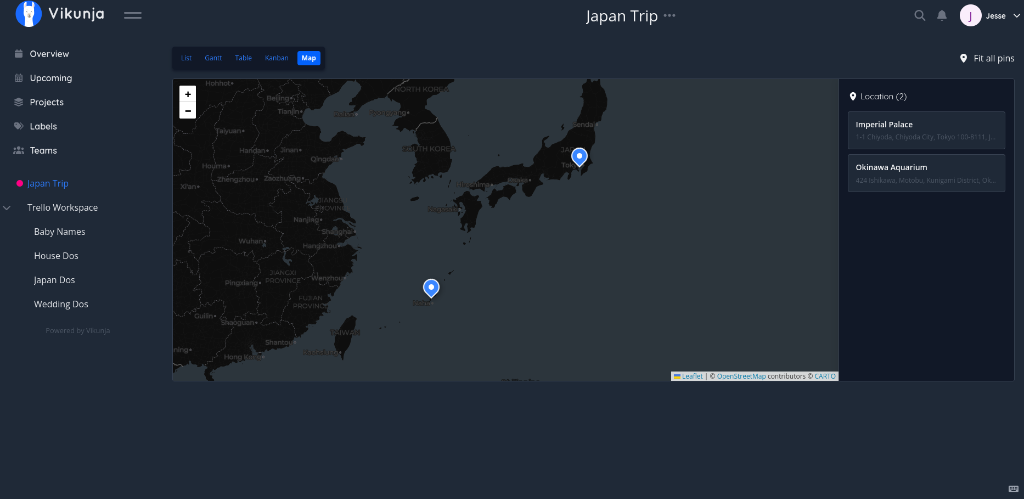
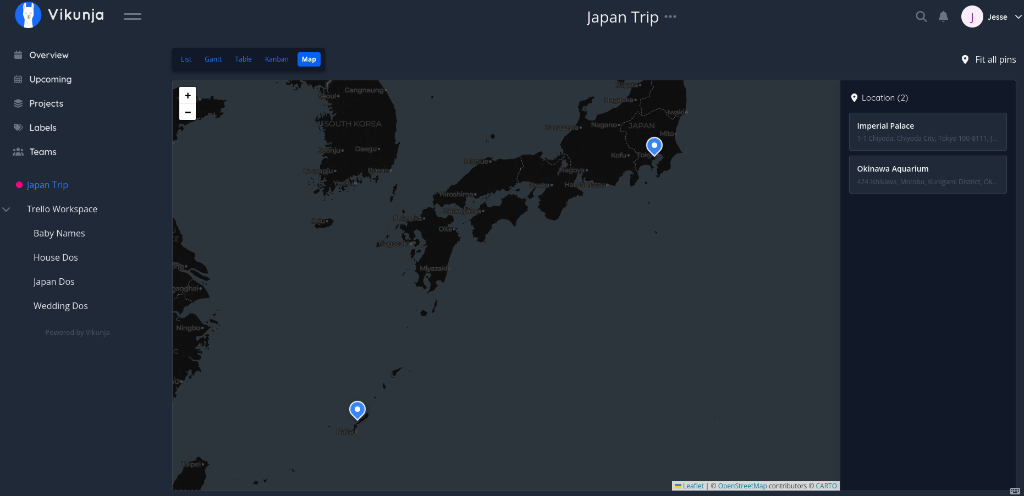
fix(ui): responsive map layout with mobile slide-up drawer and full-height desktop view

diff --git a/frontend/src/components/project/views/ProjectViewMap.vue b/frontend/src/components/project/views/ProjectViewMap.vue
@@ -21,6 +21,19 @@
 					/>
 					{{ $t('project.map.fitAll') }}
 				</BaseButton>
+
+				<BaseButton
+					size="small"
+					variant="secondary"
+					class="mobile-locations-btn mis-2"
+					@click="isMobileDrawerOpen = true"
+				>
+					<Icon
+						icon="list"
+						class="mie-1"
+					/>
+					{{ $t('task.location.title') }} ({{ mappedTasks.length }})
+				</BaseButton>
 			</div>
 		</template>
 
@@ -32,9 +45,10 @@
 					:class="{'dark-osm-tiles': isUsingOsmFallback && isDark}"
 				/>
 
+				<!-- Desktop Persistent Sidebar -->
 				<aside
 					v-if="!isLoadingLocations && mappedTasks.length > 0"
-					class="map-sidebar"
+					class="map-sidebar desktop-only"
 				>
 					<h4 class="sidebar-heading">
 						<Icon
@@ -59,6 +73,51 @@
 						</li>
 					</ul>
 				</aside>
+
+				<!-- Mobile Slide-Up Drawer -->
+				<div
+					v-if="!isLoadingLocations && mappedTasks.length > 0 && isMobileDrawerOpen"
+					class="mobile-drawer-backdrop"
+					@click="isMobileDrawerOpen = false"
+				>
+					<div
+						class="mobile-drawer-panel"
+						@click.stop
+					>
+						<div class="mobile-drawer-header">
+							<span class="mobile-drawer-title">
+								<Icon
+									icon="map-marker-alt"
+									class="mie-1"
+								/>
+								{{ $t('task.location.title') }} ({{ mappedTasks.length }})
+							</span>
+							<button
+								type="button"
+								class="mobile-drawer-close"
+								:aria-label="$t('misc.closeDialog')"
+								@click="isMobileDrawerOpen = false"
+							>
+								<Icon icon="xmark" />
+							</button>
+						</div>
+						<ul class="pinned-locations-list">
+							<li
+								v-for="item in mappedTasks"
+								:key="item.task.id"
+								class="pinned-location-item"
+								@click="onMobileLocationClick(item.task.id)"
+							>
+								<div class="pinned-task-title">
+									{{ item.task.title }}
+								</div>
+								<div class="pinned-task-address">
+									{{ item.location.address || item.location.title }}
+								</div>
+							</li>
+						</ul>
+					</div>
+				</div>
 
 				<!-- Empty hint shown ONLY after loading finishes and no locations exist -->
 				<div
@@ -102,6 +161,7 @@ const props = withDefaults(defineProps<{
 
 const router = useRouter()
 const {isDark} = useColorScheme()
+const isMobileDrawerOpen = ref(false)
 
 const mapContainer = ref<HTMLElement | null>(null)
 const locationsByTaskId = ref<Map<number, TaskLocation>>(new Map())
@@ -276,13 +336,21 @@ function focusTaskPin(taskId: number) {
 	marker.openPopup()
 }
 
+function onMobileLocationClick(taskId?: number) {
+	if (!taskId) return
+	focusTaskPin(taskId)
+	isMobileDrawerOpen.value = false
+}
+
 function tryInitAndRender() {
 	if (mapContainer.value && !mapInstance) {
 		initMap()
 	}
 	if (mapInstance) {
-		mapInstance.invalidateSize()
-		renderMarkers()
+		nextTick(() => {
+			mapInstance?.invalidateSize()
+			renderMarkers()
+		})
 	}
 }
 
@@ -346,10 +414,7 @@ onBeforeUnmount(() => {
 
 <style scoped lang="scss">
 .project-map-view-wrapper {
-	block-size: 100%;
-	display: flex;
-	flex-direction: column;
-	flex: 1;
+	inline-size: 100%;
 }
 
 .map-toolbar {
@@ -357,31 +422,45 @@ onBeforeUnmount(() => {
 	align-items: center;
 }
 
+.mobile-locations-btn {
+	@media screen and (min-width: $tablet) {
+		display: none !important;
+	}
+}
+
 .project-map-view {
-	flex: 1;
 	inline-size: 100%;
-	block-size: calc(100vh - 170px);
-	min-block-size: 550px;
+	block-size: calc(100vh - #{$navbar-height} - 1.5rem - #{$switch-view-height} - 1rem - 1.5rem);
+	min-block-size: 500px;
 	border-radius: $radius;
 	overflow: hidden;
 	border: 1px solid var(--border);
 	background: var(--scheme-main);
 	position: relative;
 	display: flex;
+
+	@media screen and (max-width: $tablet) {
+		block-size: calc(100vh - #{$navbar-height} - 1.5rem - (#{$switch-view-height} * 2) - 1rem - 1rem);
+		min-block-size: 380px;
+	}
 }
 
 .map-layout {
 	display: flex;
 	inline-size: 100%;
 	block-size: 100%;
+	flex: 1;
+	min-block-size: 0;
 	position: relative;
+	overflow: hidden;
 }
 
 .leaflet-map-canvas {
 	flex: 1;
 	inline-size: 100%;
 	block-size: 100%;
-	min-block-size: 550px;
+	min-block-size: 0;
+	position: relative;
 	z-index: 1;
 
 	&.dark-osm-tiles :deep(.leaflet-tile-pane) {
@@ -391,6 +470,8 @@ onBeforeUnmount(() => {
 
 .map-sidebar {
 	inline-size: 320px;
+	block-size: 100%;
+	min-block-size: 0;
 	background: var(--scheme-main);
 	border-inline-start: 1px solid var(--border);
 	overflow-y: auto;
@@ -398,10 +479,17 @@ onBeforeUnmount(() => {
 	z-index: 10;
 	display: flex;
 	flex-direction: column;
+	flex-shrink: 0;
 	box-shadow: -4px 0 16px rgba(0, 0, 0, 0.08);
 
 	:global(.dark) & {
 		box-shadow: -4px 0 16px rgba(0, 0, 0, 0.35);
+	}
+
+	&.desktop-only {
+		@media screen and (max-width: $tablet) {
+			display: none !important;
+		}
 	}
 }
 
@@ -412,6 +500,72 @@ onBeforeUnmount(() => {
 	margin-block-end: 1rem;
 	display: flex;
 	align-items: center;
+}
+
+.mobile-drawer-backdrop {
+	position: absolute;
+	inset: 0;
+	z-index: 1000;
+	background: rgba(0, 0, 0, 0.45);
+	backdrop-filter: blur(2px);
+	display: flex;
+	flex-direction: column;
+	justify-content: flex-end;
+
+	@media screen and (min-width: $tablet) {
+		display: none !important;
+	}
+}
+
+.mobile-drawer-panel {
+	background: var(--scheme-main);
+	border-radius: $radius $radius 0 0;
+	border-block-start: 1px solid var(--border);
+	padding: 1rem;
+	max-block-size: 55vh;
+	overflow-y: auto;
+	box-shadow: 0 -8px 24px rgba(0, 0, 0, 0.25);
+	animation: slide-up 0.2s cubic-bezier(0.16, 1, 0.3, 1);
+}
+
+@keyframes slide-up {
+	from {
+		transform: translateY(100%);
+	}
+	to {
+		transform: translateY(0);
+	}
+}
+
+.mobile-drawer-header {
+	display: flex;
+	align-items: center;
+	justify-content: space-between;
+	margin-block-end: 0.85rem;
+	padding-block-end: 0.5rem;
+	border-block-end: 1px solid var(--border);
+}
+
+.mobile-drawer-title {
+	font-weight: 700;
+	font-size: 0.95rem;
+	color: var(--text-strong);
+}
+
+.mobile-drawer-close {
+	background: transparent;
+	border: none;
+	color: var(--text-light);
+	font-size: 1rem;
+	cursor: pointer;
+	padding: 0.25rem;
+	display: flex;
+	align-items: center;
+	justify-content: center;
+
+	&:hover {
+		color: var(--text);
+	}
 }
 
 .pinned-locations-list {
@@ -526,6 +680,8 @@ onBeforeUnmount(() => {
 }
 
 :deep(.leaflet-container) {
+	inline-size: 100%;
+	block-size: 100%;
 	font-family: inherit;
 	background: var(--scheme-main);
 }
